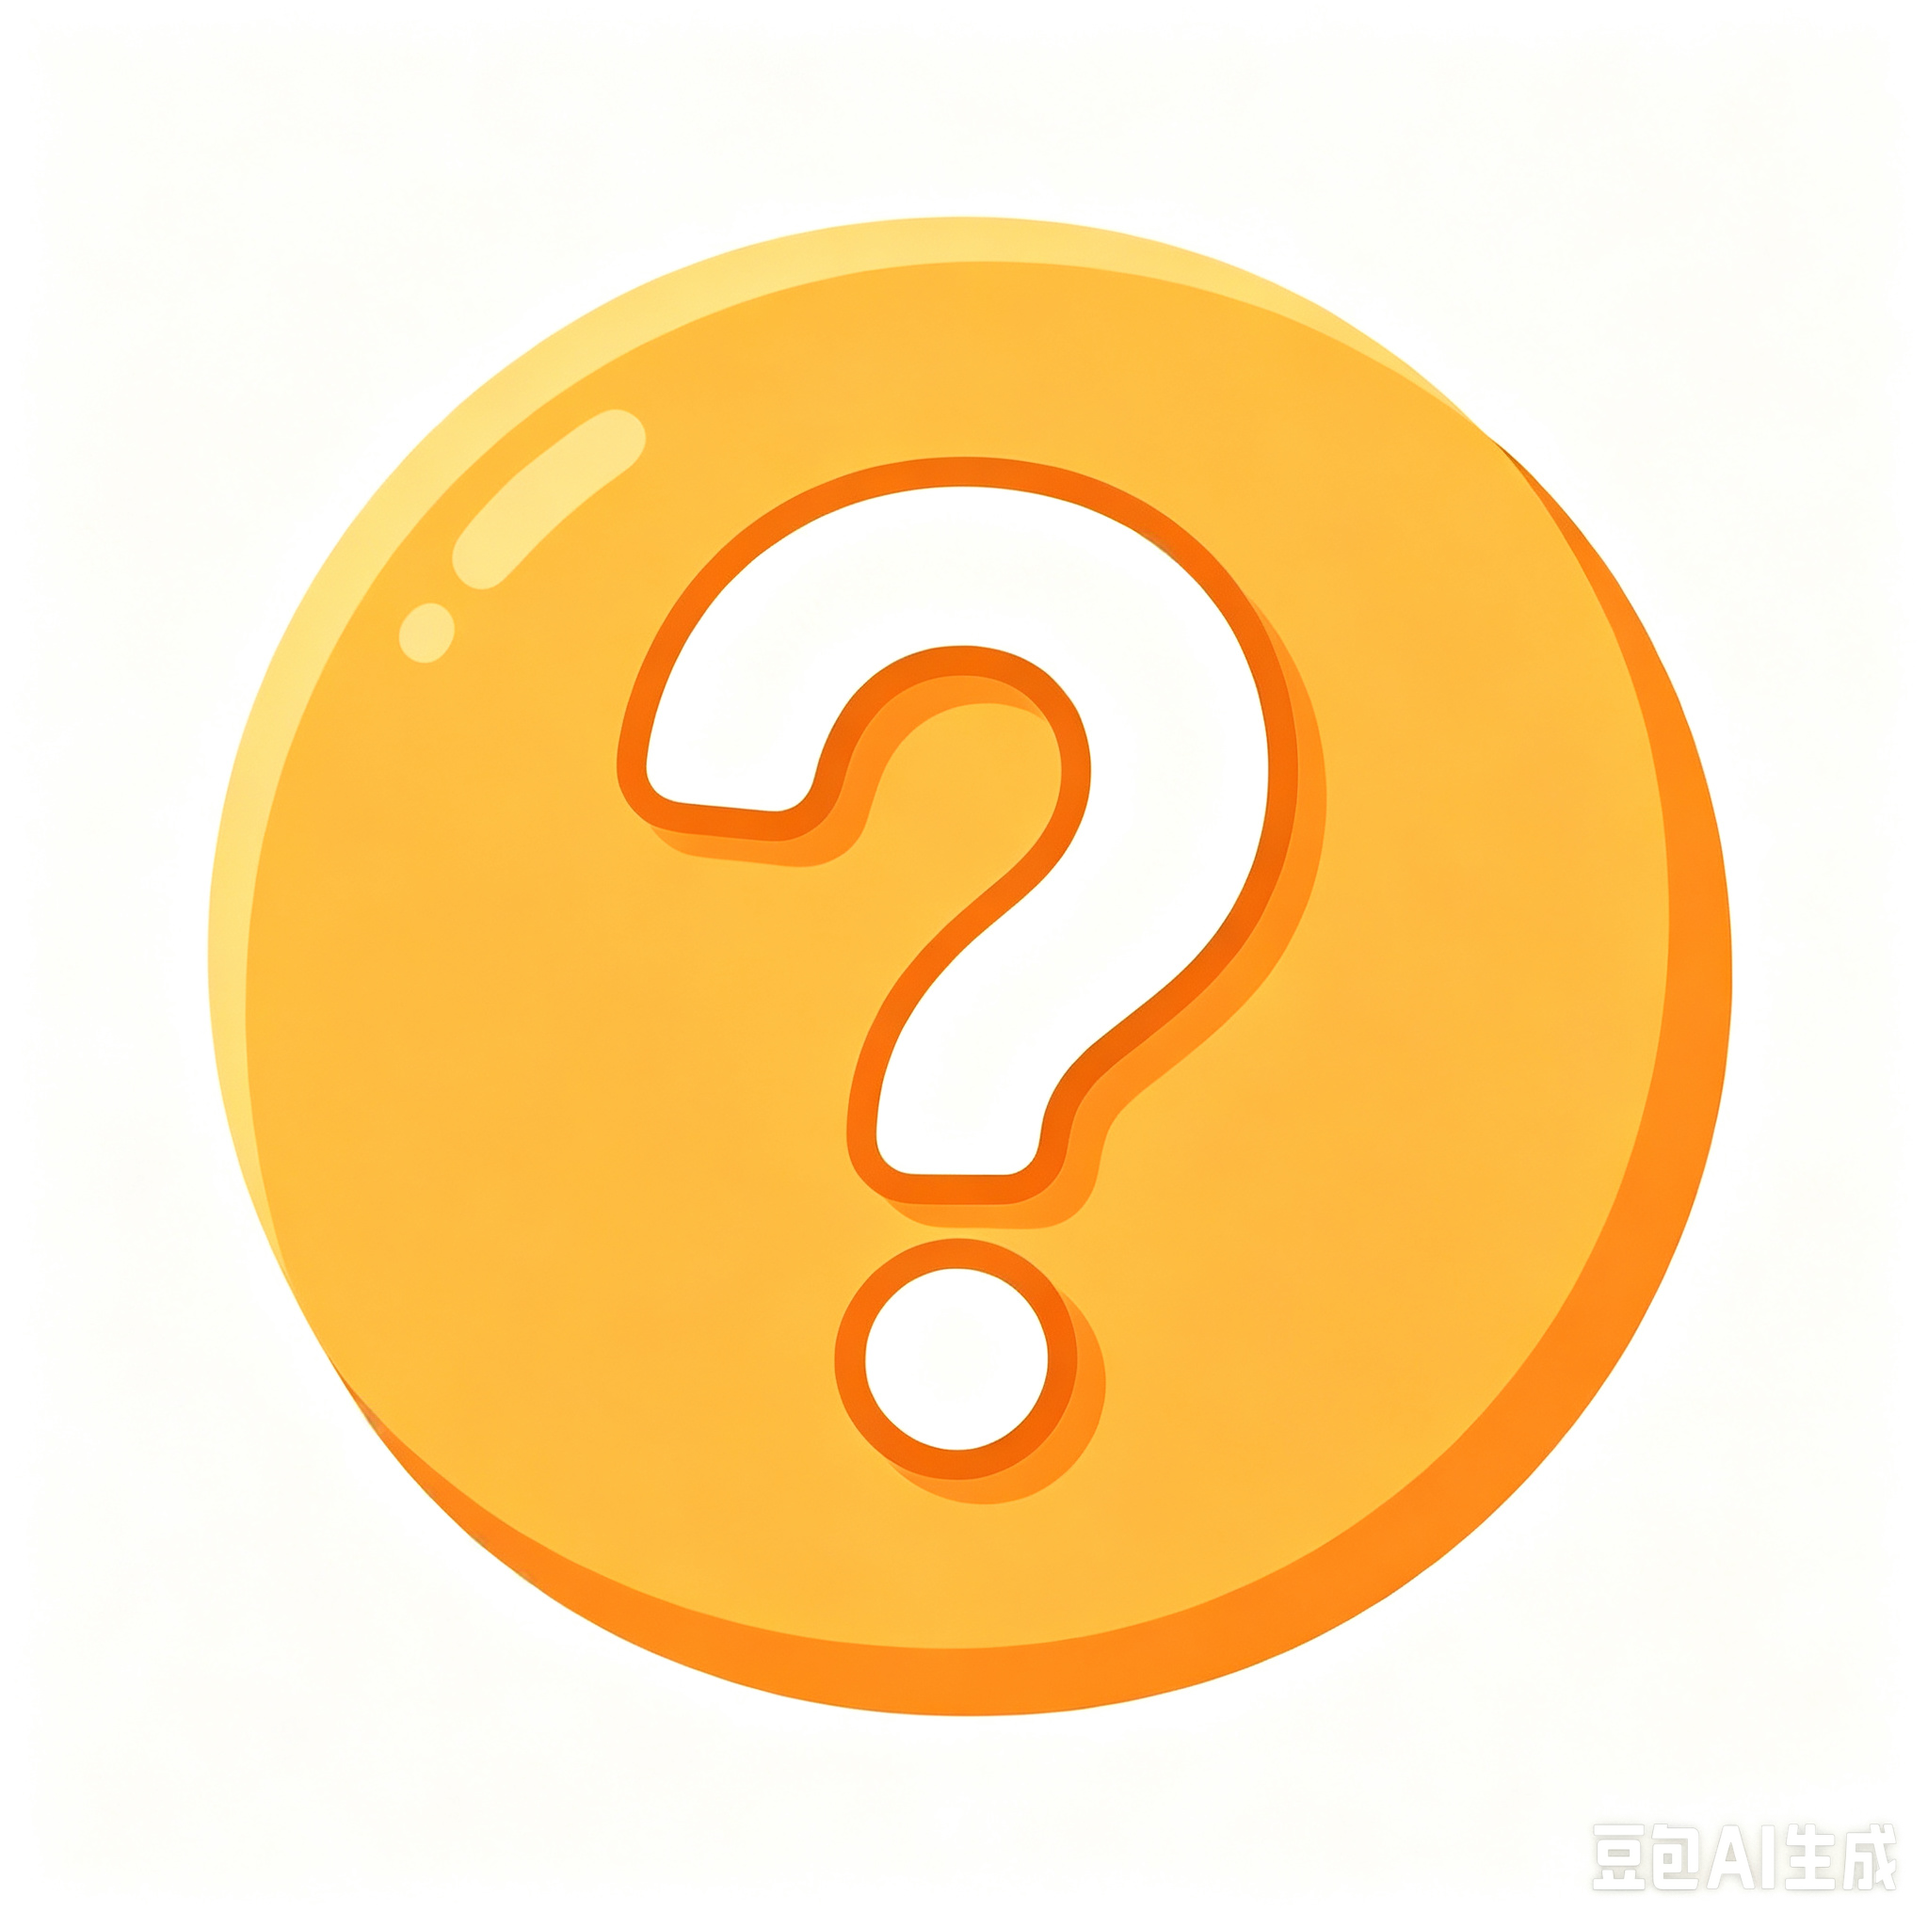
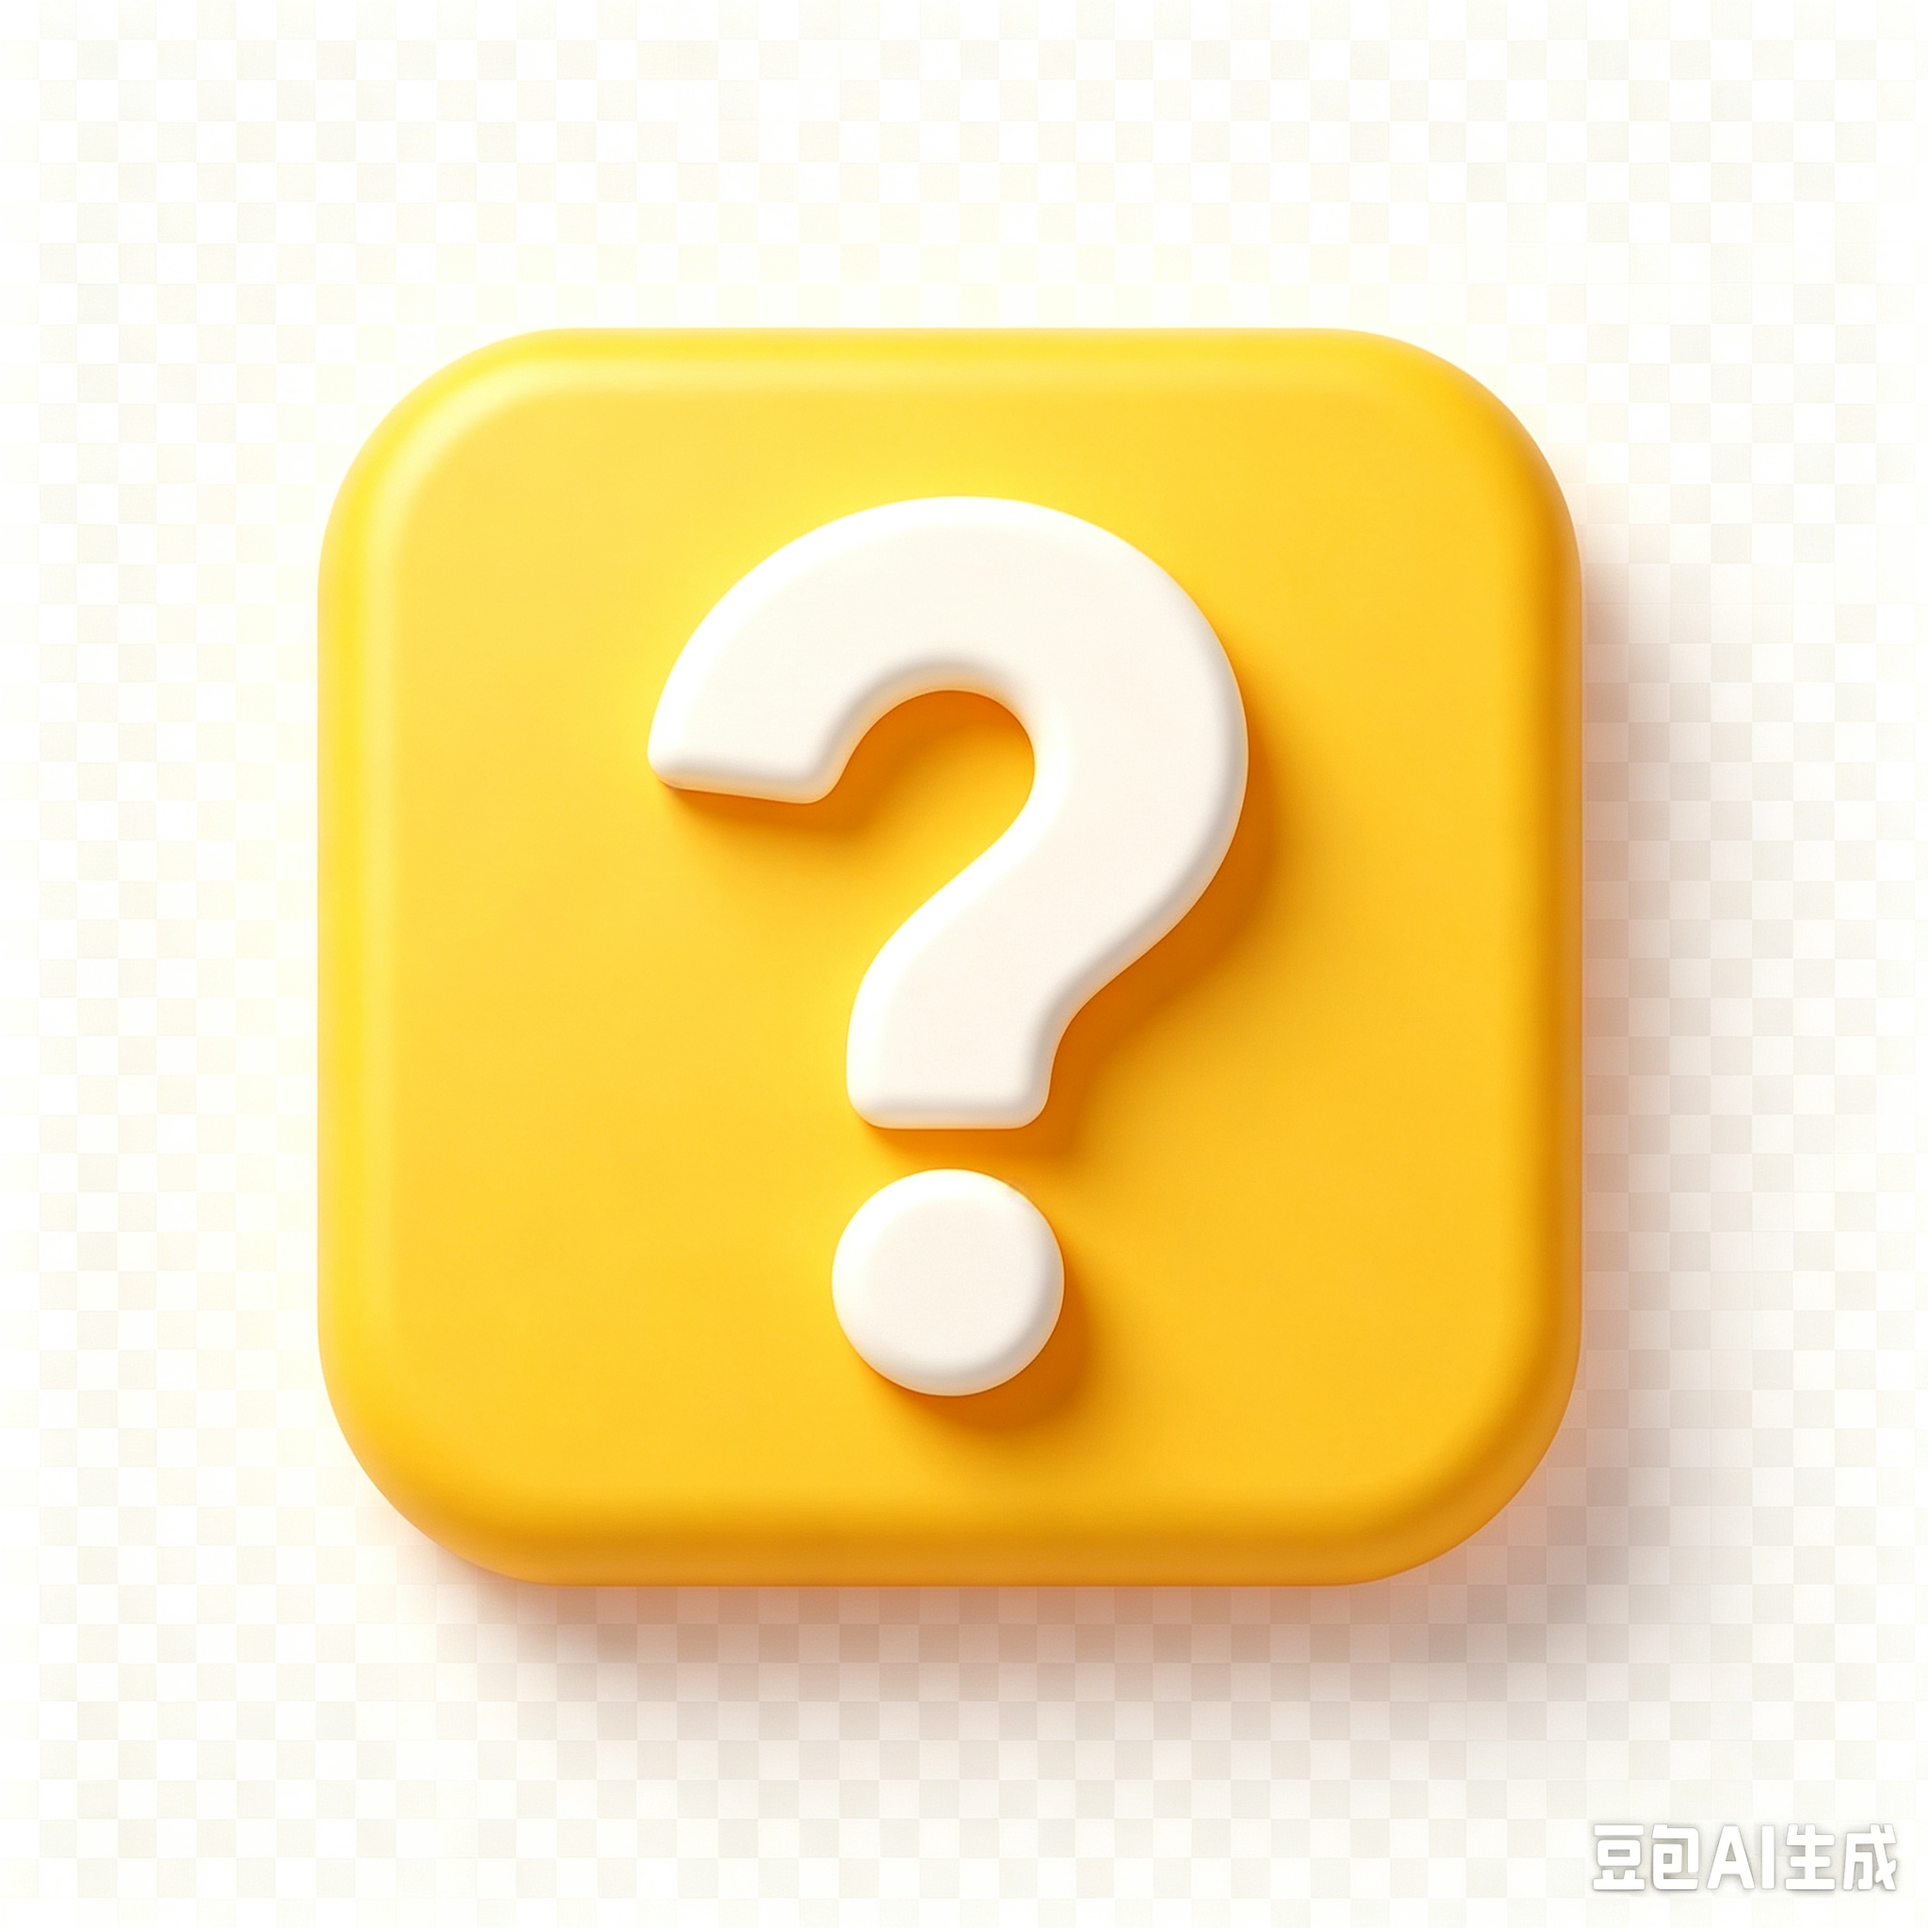
fix: polish plane focus and refresh idle prompt

diff --git a/src/ui-layout.test.ts b/src/ui-layout.test.ts
@@ -99,16 +99,19 @@ test('back button is a rounded rectangle instead of a circle', () => {
   assert.ok(!backActionBlock.includes('border-radius: 999px;'))
 })
 
-test('player plane sprites drop outer rings and use a stronger base-vs-track size split', () => {
+test('player plane sprites use stronger base-vs-track sizing, no shadow, and only clickable glow remains', () => {
   const playScene = read('composables/useFlightLudoPlayScene.ts')
-  const pieceRenderBlock = sliceSceneBlock(playScene, 'const shadow = new PIXI.Graphics()', 'board.addChild(pieceGroup)')
+  const pieceRenderBlock = sliceSceneBlock(playScene, "if (isLegal && !isMoving) {", 'board.addChild(pieceGroup)')
 
-  assert.ok(pieceRenderBlock.includes("const pieceBodyScale = pieceInfo.location === 'base' ? 6.1 : 4.9"))
+  assert.ok(pieceRenderBlock.includes("const pieceBodyScale = pieceInfo.location === 'base' ? 6.5 : 4.5"))
   assert.ok(pieceRenderBlock.includes('body.width = pieceRadius * pieceBodyScale'))
   assert.ok(pieceRenderBlock.includes('body.height = pieceRadius * pieceBodyScale'))
 
-  assert.ok(!pieceRenderBlock.includes('const badgeRing = new PIXI.Graphics()'))
-  assert.ok(!pieceRenderBlock.includes('const badgeGlow = new PIXI.Graphics()'))
-  assert.ok(!pieceRenderBlock.includes('const halo = new PIXI.Graphics()'))
-  assert.ok(!pieceRenderBlock.includes('const ring = new PIXI.Graphics()'))
+  assert.ok(!pieceRenderBlock.includes('const shadow = new PIXI.Graphics()'))
+  assert.ok(!pieceRenderBlock.includes('.ellipse(2, 7, pieceRadius + 10, pieceRadius + 5)'))
+
+  assert.ok(pieceRenderBlock.includes('const legalGlow = new PIXI.Graphics()'))
+  assert.ok(pieceRenderBlock.includes('.circle(0, 0, pieceRadius + 8)'))
+  assert.ok(pieceRenderBlock.includes('.stroke({ color: hexToNumber(pieceInfo.player.color), width: 2.5, alpha: 0.18 + legalPulse.value * 0.22 })'))
+  assert.ok(!pieceRenderBlock.includes('const legalRing = new PIXI.Graphics()'))
 })

diff --git a/src/composables/useFlightLudoPlayScene.ts b/src/composables/useFlightLudoPlayScene.ts
@@ -1507,26 +1507,16 @@ export function useFlightLudoPlayScene(options: UseFlightLudoPlaySceneOptions) {
         pieceGroup.on('pointerdown', () => handleMove(pieceInfo.piece.id))
       }
 
-      const legalRing = new PIXI.Graphics()
-        .circle(0, 0, pieceRadius + 11)
-        .stroke({ color: 0xffffff, width: 2, alpha: isLegal ? 0.22 + legalPulse.value * 0.3 : 0.04 })
-      pieceGroup.addChildAt(legalRing, 0)
-
       if (isLegal && !isMoving) {
         const legalGlow = new PIXI.Graphics()
-          .circle(0, 0, pieceRadius + 15)
-          .stroke({ color: hexToNumber(pieceInfo.player.color), width: 4, alpha: 0.15 + legalPulse.value * 0.35 })
+          .circle(0, 0, pieceRadius + 8)
+          .stroke({ color: hexToNumber(pieceInfo.player.color), width: 2.5, alpha: 0.18 + legalPulse.value * 0.22 })
         pieceGroup.addChildAt(legalGlow, 0)
       }
 
-      const shadow = new PIXI.Graphics()
-        .ellipse(2, 7, pieceRadius + 10, pieceRadius + 5)
-        .fill({ color: 0x020617, alpha: 0.26 })
-      pieceGroup.addChild(shadow)
-
       const tint = hexToNumber(pieceInfo.player.color)
       const texture = getPlayerPieceTexture(pieceInfo.player.index)
-      const pieceBodyScale = pieceInfo.location === 'base' ? 6.1 : 4.9
+      const pieceBodyScale = pieceInfo.location === 'base' ? 6.5 : 4.5
       if (texture) {
         const body = new PIXI.Sprite(texture)
         body.anchor.set(0.5)
